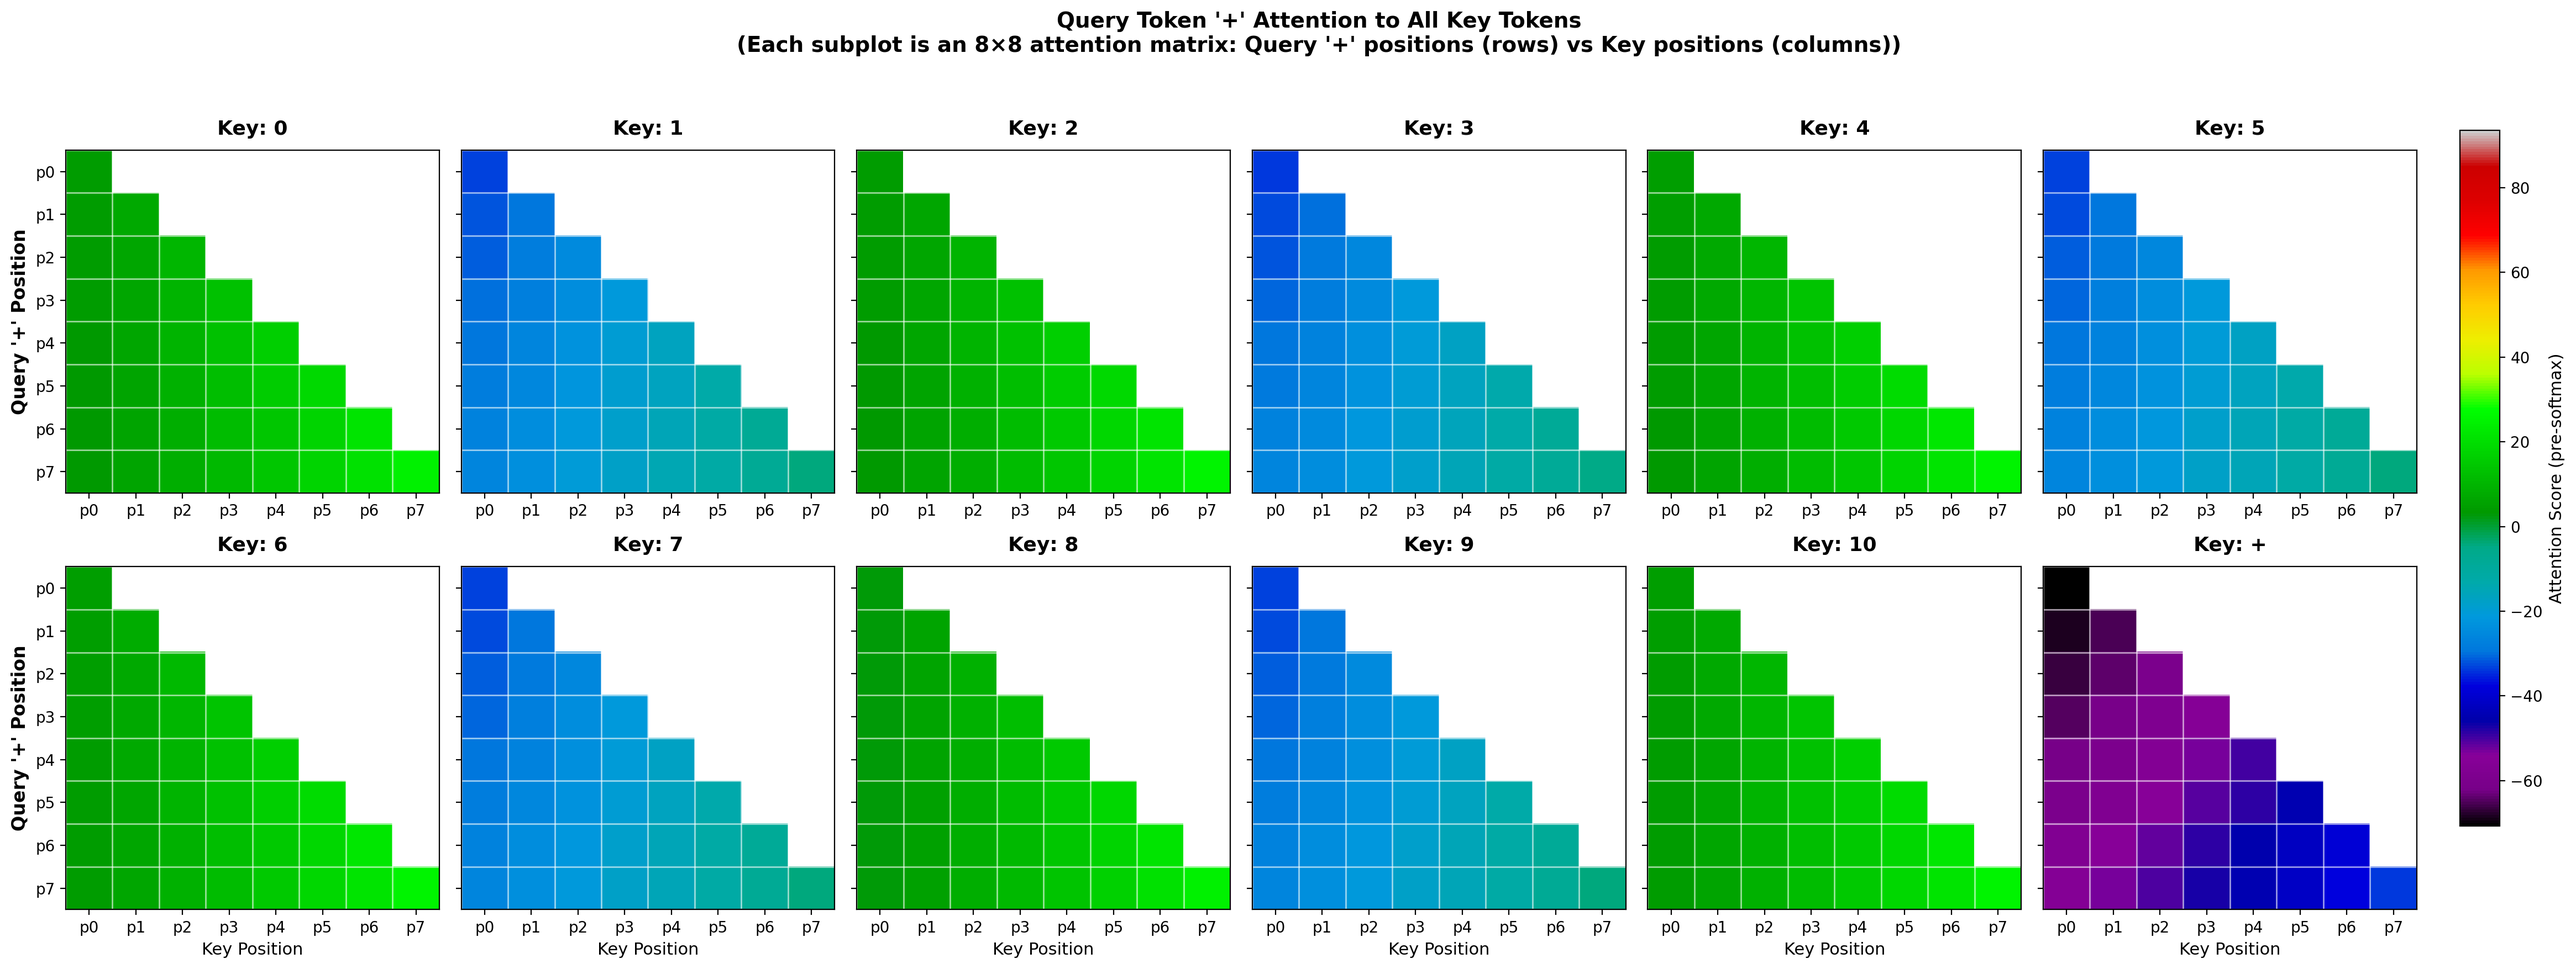
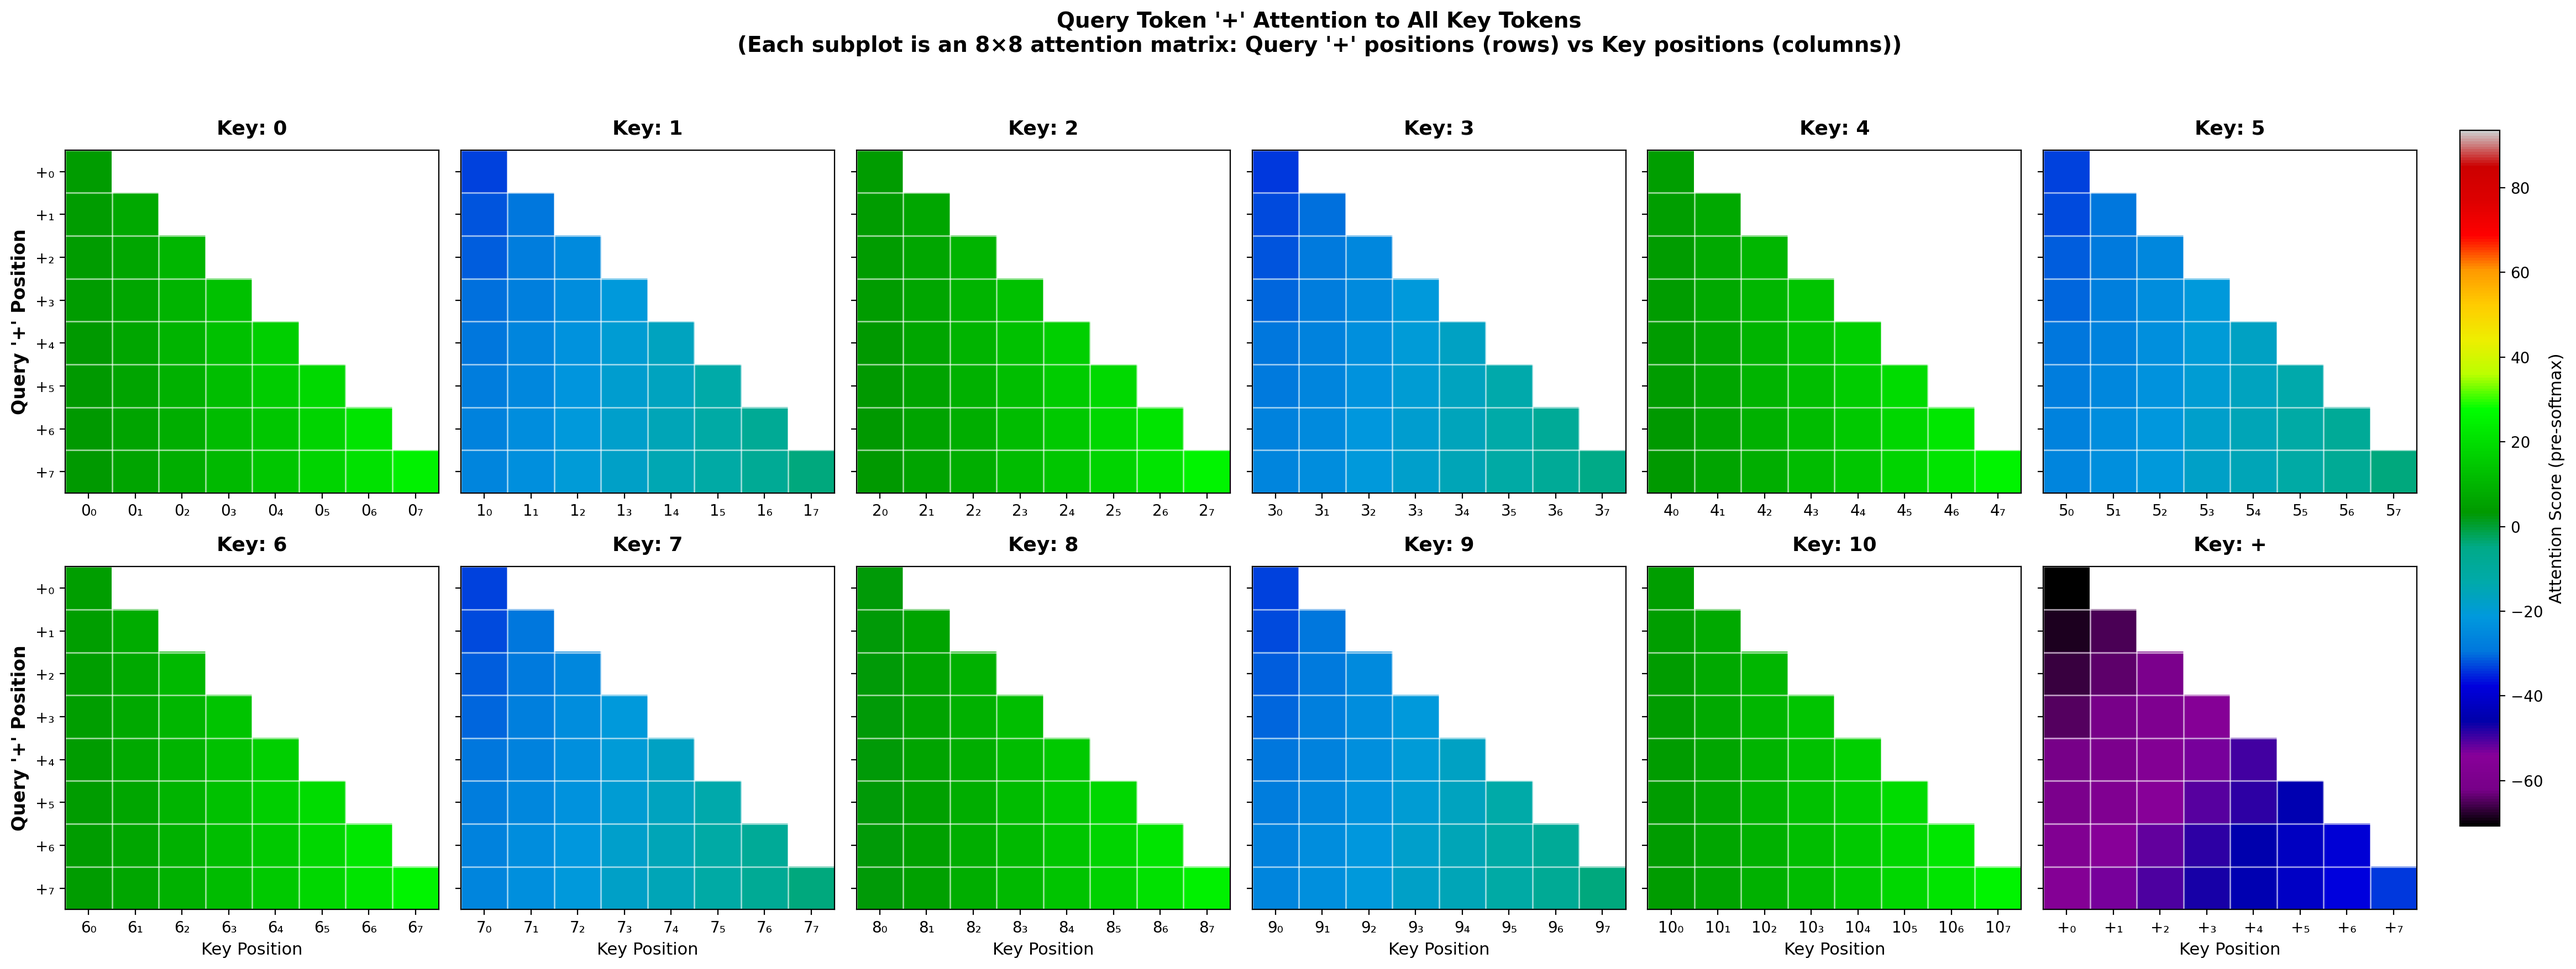
3.4 and figures update

diff --git a/paper.tex b/paper.tex
@@ -464,21 +464,24 @@ due to the causal mask. This is the retrieval mechanism laid bare: the
 keys from the past context, with recency biasing the selection toward
 the most recent one.
 
-The full 96×96 attention score matrix (Figure 9) confirms that this
-pattern generalizes across all token--position combinations. The matrix
-is organized as a 12×12 grid of blocks, where each block represents one
-query-token versus one key-token, with the 8 positions arranged within
-each block. The bottom row --- corresponding to \texttt{+} as the query
-token --- is the most informative: even-number key columns (0, 2, 4, 6,
-8, 10) show warm colors (high attention scores), while odd-number key
-columns show cool colors (low scores). The \texttt{+} operator attends
-selectively and strongly to even numbers, regardless of position. Movie
-5 shows this row sharpening from a diffuse pattern at initialization to
-the clean even/odd dichotomy observed in the final model.
+Because Figure 9 is not tied to a specific input sequence, we do not
+plot an attention matrix (which would require applying a causal mask and
+a softmax). Instead, we plot the raw query--key scores \(QK^\top\): the
+dot product between every query vector and every key vector. To focus on
+the rule-relevant structure, Figure 9 shows only the blocks where the
+\textbf{query token is \texttt{+}}. Each subplot is an 8×8 grid: rows
+index the \textbf{position of the \texttt{+} query}, and columns index
+the \textbf{position of the key} for the indicated key token. Even-number
+key blocks are consistently higher than odd-number key blocks, showing
+that \texttt{+} queries score even keys more strongly across positions.
+(The full all-query \(QK^\top\) matrix is shown in \textbf{Supplementary
+Figure S1}.)
 
-\pandocbounded{\includegraphics[keepaspectratio,alt={Full Attention Matrix}]{plus_last_even/plots/a4/11_qk_full_heatmap.png}}
-\emph{\textbf{Figure 9.} Full 96×96 attention score matrix, organized as
-a 12×12 grid of token--token blocks.}
+\pandocbounded{\includegraphics[keepaspectratio,alt={QK scores for + queries}]{plus_last_even/plots/a4/11_1_qk_full_heatmap_last_row.png}}
+\emph{\textbf{Figure 9.} Pre-softmax query--key scores \(QK^\top\),
+restricted to \texttt{+} queries. Each subplot shows an 8×8 matrix of dot
+products: \texttt{+} query positions (rows) vs.~key positions (columns)
+for a fixed key token.}
 
 For the sequence \texttt{10\ +\ 10\ 6\ +\ 6\ 4\ 8} (traced in full in
 §3.7 below), Figure 10 shows the dot-product gradient for each query

diff --git a/plotting/11_qk_full_attention_heatmap.py b/plotting/11_qk_full_attention_heatmap.py
@@ -245,9 +245,10 @@ def plot_qk_full_attention_heatmap_last_row(model, itos, save_path: str = None):
         # Set ticks to show positions - make them larger and clearer
         _tick_fs = 9 if _u._JOURNAL_MODE else 10
         ax.set_xticks(range(block_size))
-        ax.set_xticklabels([f"p{i}" for i in range(block_size)], fontsize=_tick_fs)
+        key_tok = str(itos[key_token_idx])
+        ax.set_xticklabels([_u._token_pos_label(key_tok, i) for i in range(block_size)], fontsize=_tick_fs)
         ax.set_yticks(range(block_size))
-        ax.set_yticklabels([f"p{i}" for i in range(block_size)], fontsize=_tick_fs)
+        ax.set_yticklabels([_u._token_pos_label("+", i) for i in range(block_size)], fontsize=_tick_fs)
         
         # Title shows the Key Token - make it larger
         ax.set_title(f"Key: {itos[key_token_idx]}", fontsize=13, fontweight='bold', pad=10)

diff --git a/visualize.py b/visualize.py
@@ -463,6 +463,9 @@ def visualize_from_checkpoint(
             plot_qk_full_attention_combined(
                 model, itos, save_path=_plot_path("qk_full_attention_heatmap.png")
             )
+            plot_qk_full_attention_heatmap_last_row(
+                model, itos, save_path=_plot_path("qk_full_attention_heatmap_last_row.png")
+            )
         else:
             plot_qk_full_attention_heatmap(
                 model, itos, save_path=_plot_path("qk_full_attention_heatmap.png")

diff --git a/Paper.md b/Paper.md
@@ -206,10 +206,10 @@ Movie 4 reveals how this structure develops over the course of training. At init
 
 
 
-The full 96×96 attention score matrix (Figure 9) confirms that this pattern generalizes across all token–position combinations. The matrix is organized as a 12×12 grid of blocks, where each block represents one query-token versus one key-token, with the 8 positions arranged within each block. The bottom row — corresponding to `+` as the query token — is the most informative: even-number key columns (0, 2, 4, 6, 8, 10) show warm colors (high attention scores), while odd-number key columns show cool colors (low scores). The `+` operator attends selectively and strongly to even numbers, regardless of position. Movie 5 shows this row sharpening from a diffuse pattern at initialization to the clean even/odd dichotomy observed in the final model.
+Because Figure 9 is not tied to a specific input sequence, we can not prooduce a true attention matrix (which would require having only a single token in each position). However, we can calculate the raw query–key scores $QK^T$: the dot product between every possible query vector and every possible key vector. To focus on the rule-relevant structure, Figure 9 shows only the blocks where the **query token is `+`**. Each subplot is an 8×8 grid: rows index the **position of the `+` query**, and columns index the **position of the key** for the indicated key token. Even-number key blocks score consistently higher than odd-number key blocks, showing that `+` queries score even keys more strongly across positions. (The full all-query \(QK^\top\) matrix is included in the Supplementary Figures). Moreover, tokens at later positions recieve higher dot product scores than tokens at earlier positions. This confirms the observation from Figure 8 that the geometry of the key/query space allows the `+` tokens to attend to most recent even tokens.
 
-![Full Attention Matrix](plus_last_even/plots/a4/11_qk_full_heatmap.png)
-***Figure 9.** Full 96×96 attention score matrix, organized as a 12×12 grid of token–token blocks.*
+![QK scores for `+` queries](plus_last_even/plots/a4/11_1_qk_full_heatmap_last_row.png)
+***Figure 9.** Pre-softmax query–key scores \(QK^\top\), restricted to `+` queries. Each subplot shows an 8×8 matrix of dot products: `+` query positions (rows) vs. key positions (columns) for a fixed key token.*
 
 For the sequence `10 + 10 6 + 6 4 8` (traced in full in §3.7 below), Figure 10 shows the dot-product gradient for each query position. Each panel visualizes that query's dor product with all keys across the Q/K plane, along with the masked $Q \cdot K^\top$ scores and the resulting attention weights. This makes the retrieval pattern explicit per position (e.g. Both `+` queries attend strongly to even-number keys).
 
@@ -338,6 +338,7 @@ Additional static figures in `plus_last_even/plots/supplementary/` and `plus_las
 \parbox[t]{3.2cm}{\raggedright\ttfamily\seqsplit{supplementary/14\_attention\_matrix.png}} & Per-sequence attention matrices alongside LM head linear input, logits, and output probabilities for three demo sequences. \\
 \parbox[t]{3.2cm}{\raggedright\ttfamily\seqsplit{supplementary/16\_value\_arrows.png}} & Value vectors (original, transformed, residual) for three demo sequences, with correctness indicated by green/red markers. \\
 \parbox[t]{3.2cm}{\raggedright\ttfamily\seqsplit{extended/08\_qkv\_transforms\_extended.png}} & Extended QKV figure with per-dimension heatmaps (tokens$\times$positions) for Q, K, and V. \\
+\parbox[t]{3.2cm}{\raggedright\ttfamily\seqsplit{a4/11\_qk\_full\_heatmap.png}} & Full 96×96 pre-softmax query–key score matrix \(QK^\top\) (dot products), covering all query tokens and positions vs. all key tokens and positions (no masking/softmax), organized as a 12×12 grid of token–token blocks. \\
 \bottomrule
 \end{tabularx}
 
